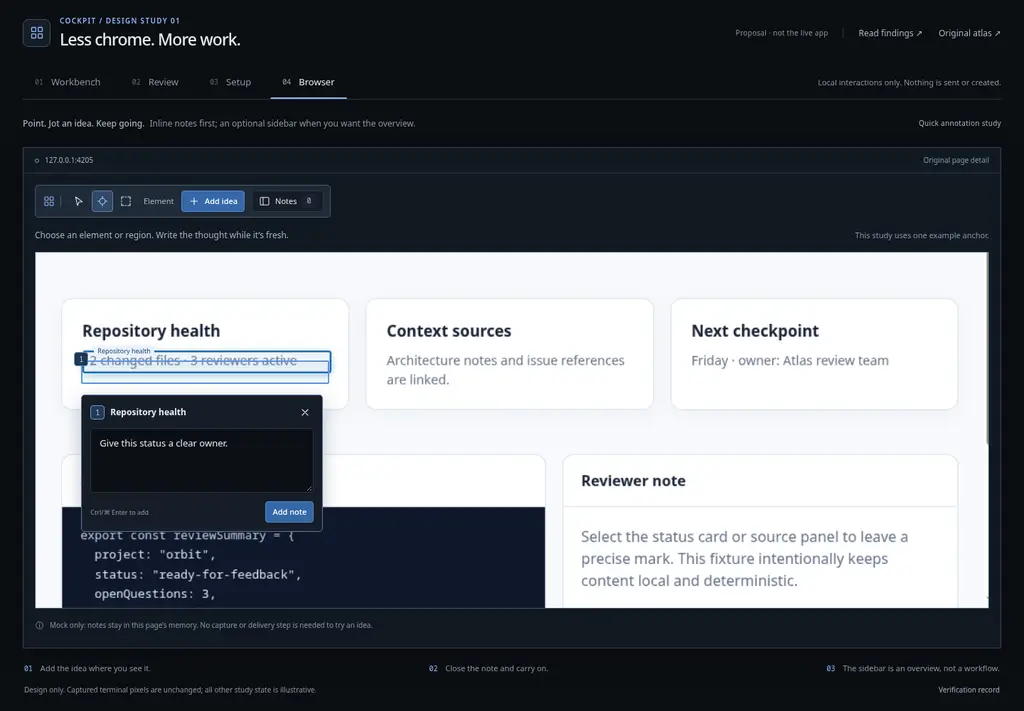
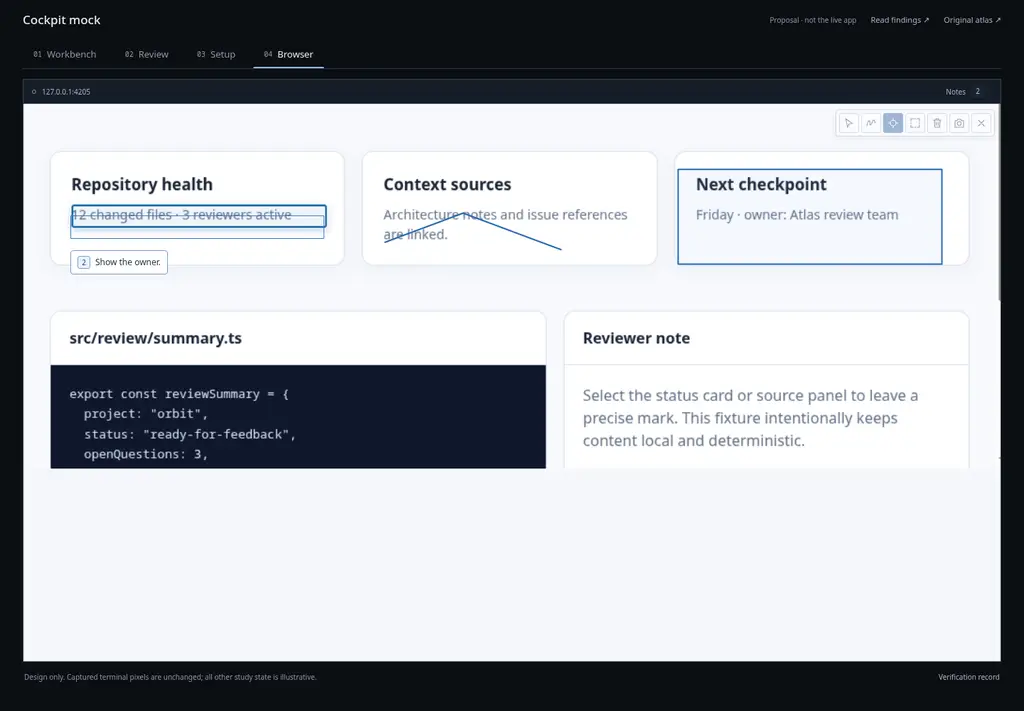
Refine UI polish mock and record browser verification

diff --git a/planning/product-atlas-2026-09-12/polish/styles.css b/planning/product-atlas-2026-09-12/polish/styles.css
@@ -44,7 +44,6 @@
 .page-surface>img{display:block;width:100%;height:auto}
 .idea-toolbar{position:absolute;z-index:8;top:8px;right:8px;display:flex;align-items:center;gap:3px;padding:4px;border:1px solid #a3b1c4;border-radius:4px;background:white;box-shadow:0 2px 7px #14253b20;opacity:.45}
 .idea-toolbar:hover,.idea-toolbar:has(:focus-visible){opacity:1}
-@media(hover:none){.idea-toolbar{opacity:1}}
 .idea-toolbar .icon-button{width:28px;height:28px;min-height:28px;padding:4px;color:#29394f;border:1px solid #aebbd0;border-radius:3px}
 .idea-toolbar .icon-button:hover{background:#edf3fc}
 .idea-toolbar .active-tool{background:#2f67a8;color:white;border-color:#2f67a8}

diff --git a/planning/product-atlas-2026-09-12/polish/verification.md b/planning/product-atlas-2026-09-12/polish/verification.md
@@ -1,0 +1,66 @@
+# Mock verification
+
+Design artifacts only. Open [the mock](index.html) directly in a browser. No application code, Herdr sessions, repositories, worktrees, extension installations, or provider data were changed by this work. All interactive example state is local to the page and resets on reload.
+
+## Browser checks
+
+The standalone HTML was exercised in Chromium with actual pointer and keyboard input. Final captures were visually inspected.
+
+### Setup and navigation
+
+- Initial issue URL fills repository `cockpit`, branch `issue-4-terminal-width`, and the matching Space name.
+- Entering the illustrative PR URL fills branch and default name `ui-polish`.
+- Typing branch `fix/sidebar` updates the default Space name.
+- Editing the name to `My review`, then changing the branch to `fix/toolbar`, preserves `My review`.
+- Existing checkout changes the operation and checkout field. The final action stays disabled because this is not an executable repository operation.
+- No repository-actions consent checkbox remains.
+- Files and Review both expose collapsible file overviews and file pickers. Both overview toggles work.
+- Files picker identifies the issue; Review picker identifies `CONTEXT.md`. Picking the Review file preserves the Review pane.
+- No page errors occurred during this final setup/navigation check.
+
+URL resolution uses two local fixtures, not network requests. See [findings](findings.md#setup) for fixture scope and the proposed production behavior.
+
+### Browser annotations
+
+- The seven-control toolbar is 224 CSS pixels wide on desktop.
+- Pointer-driven freehand input produces a retained visible stroke.
+- Dragging a region produces a visible rectangle and opens its inline editor.
+- A region note and an element note were added without opening the sidebar; Ctrl+Enter also commits an inline note.
+- The optional overview lists both notes with their respective targets. Selecting the region entry reopens its original text inline.
+- Computed toolbar opacity is `0.45` when idle and `1` on hover.
+- Keyboard navigation followed by toolbar focus activates `:focus-visible`; computed opacity is `1`.
+- Notes, selected regions, and freehand strokes remain fully visible while toolbar chrome fades.
+
+### Layout and comments
+
+- Workbench, Review, Setup, and Browser each fit at widths 1440, 800, and 480 CSS pixels without document-level horizontal overflow or broken images. Heights were 900, 1000, and 900 respectively.
+- Desktop evidence uses 1440×1000; portrait evidence uses 480×900.
+- The portrait Review composer opens as a modal bottom sheet, 456 pixels wide at left offset 12 within the 480-pixel viewport. Text entry was exercised and visually inspected.
+- Earlier interaction checks also exercised the desktop inline composer, newline versus Ctrl/Cmd+Enter, local save/edit/cancel/delete, command filtering/Escape, document details, source view, picker empty state, sidebar collapse, and explicit document expand/restore.
+
+## Terminal preservation
+
+`assets/terminal-original.png` is the 598×840 RGB crop `(236, 59, 834, 899)` from `../current/app-files-source.png`.
+
+The stored asset was compared byte-for-byte against the original crop's decoded RGB pixels: **identical**. The mock displays it at its natural 598×840 CSS dimensions in a scrollable viewport, not as retyped text or a resized image. No original capture was modified.
+
+## Final captures
+
+| Surface | Evidence |
+| --- | --- |
+| Workbench / Files overview | [Desktop](evidence/workbench-desktop.webp) |
+| Review / matching overview | [Desktop](evidence/review-desktop.webp) |
+| Compact setup / issue defaults | [Desktop](evidence/setup-desktop.webp) · [480](evidence/setup-480.png) |
+| Inline annotations / idle toolbar | [Desktop](evidence/browser-desktop.webp) |
+| Same annotations / hovered toolbar | [Desktop](evidence/browser-toolbar-hover.webp) |
+| Optional notes overview | [Desktop](evidence/browser-notes-sidebar.webp) |
+| Review comment editor | [480](evidence/review-composer-480.webp) |
+
+These replace intermediate mock captures, including the rejected wizard, extra annotation chrome, and consent checkbox.
+
+## Static checks and limits
+
+- `node --check planning/product-atlas-2026-09-12/polish/mock.js` passed.
+- Local HTML asset/link targets and Markdown relative links were checked for existence.
+- No application build or permanent test suite was needed for these standalone design artifacts.
+- This is not proof of native rendering, live Herdr parity, provider lookup, repository mutation, durable note storage, extension installation, capture persistence, or agent delivery. Original screenshot ambiguities are recorded in the [coverage table](findings.md#screenshot-coverage).

diff --git a/planning/product-atlas-2026-09-12/polish/findings.md b/planning/product-atlas-2026-09-12/polish/findings.md
@@ -10,9 +10,12 @@ These supersede earlier suggestions in the review:
 
 - Do not change terminal content.
 - Keep the existing small browser annotation toolbar and inline/overlay notes. Preserve **freehand drawing**.
+- The annotation toolbar becomes translucent when idle; hover or keyboard-visible focus restores full opacity. Notes and drawings do not fade.
 - Do not add an “Add idea” action, descriptive slogans, explanatory subtitles, or a new capture/persistence workflow. Select an element or region and write the note there; draw directly with freehand.
 - A Notes sidebar is optional, for finding and revisiting notes. It is closed by default and is not required for authoring.
 - Setup is used **5–20 times per day**. Use a compact single-screen form, not a teaching wizard.
+- Issue/MR URLs fill repository, branch, and default Space name. A manually entered branch also becomes the default Space name; an explicitly edited name is preserved.
+- Repository actions are always allowed for this personal IDE. Remove the consent checkbox; do not replace it with another confirmation.
 - Files and Review both need a collapsible file overview and a file picker. Removing the Files overview was inconsistent.
 - Do this work directly, without delegation. No subagent performed this work.
 
@@ -55,14 +58,18 @@ Observed: the current dialog repeats repository identity, configuration details,
 
 Revised proposal for frequent use:
 
-- One form: repository, new worktree/existing checkout, branch or checkout, Space name, optional issue/review URL.
-- Show familiar values directly. No stepper, welcome copy, or repeated explanation of what a worktree is.
+- One form: optional issue/MR URL first, repository, new worktree/existing checkout, branch or checkout, and Space name.
+- URL metadata fills repository and branch. Issue branch names use a derived naming default; MR/PR metadata uses its source branch. Space name follows the branch until explicitly overridden.
+- Selecting a project and entering a branch needs no separate naming step. Updating that branch continues to update the default name; a custom name is retained. Advanced destination defaults also track the branch unless edited.
+- No stepper, welcome copy, or repeated explanation of what a worktree is.
 - Put base revision and destination in collapsed Advanced settings.
 - Put exact effects and configured repository actions in collapsed Operation details. Safety information remains available; it does not require rereading a tutorial each time.
-- Keep required per-operation consent concise and visible. Do not interpret frequent use as permission to remove server-required consent or expand its scope.
+- No actions-consent checkbox. The user explicitly selected automatic repository actions for this personal tool. This revises the earlier design recommendation; application/backend behavior is not changed by this mock.
 - Use a stable, specific Create Space/Open Space action. In this mock it is disabled because no operation exists.
 
 The default desktop and portrait form fit without navigating through multiple steps. Opening advanced details may require scrolling. Example paths and effects are not a validated plan or permission to mutate a repository.
+
+The URL autofill demonstration uses local fixture metadata: `https://github.com/nnexai/cockpit/issues/4` fills `cockpit` / `issue-4-terminal-width`; `https://github.com/nnexai/cockpit/pull/7` fills `cockpit` / `ui-polish`. The PR fixture is illustrative, not fetched or claimed to describe a real PR. Unknown URLs do not fabricate remote metadata. An eventual implementation must resolve the source against configured local repositories and use real provider metadata.
 
 ### Browser annotation
 
@@ -79,6 +86,8 @@ The revised mock keeps:
 7. Close.
 
 The toolbar is a compact overlay, not a separate workflow panel. The screenshot/capture-position control opens original evidence in this mock; it does not create or save a capture.
+
+Idle toolbar opacity is 45%; hover and keyboard-visible focus use 100%. Transparency applies only to toolbar chrome, not the page, annotations, or terminal content.
 
 - Element selection opens an inline textarea. The mock has one example element target on the captured page.
 - Region drag draws a rectangle and opens a comment beside it.
